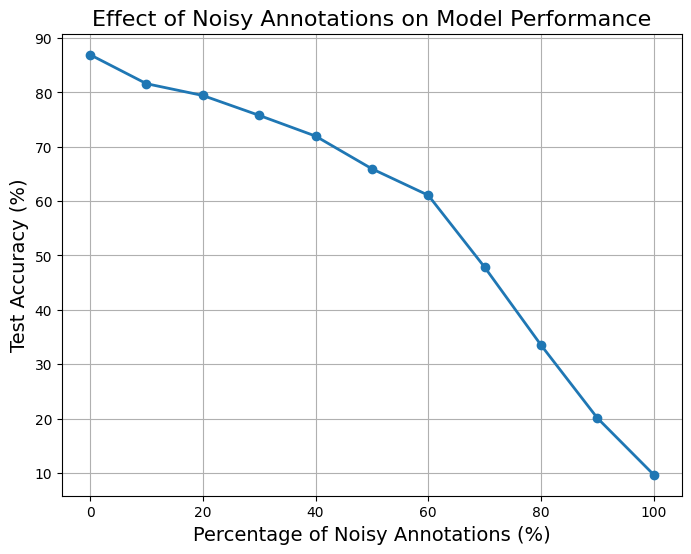
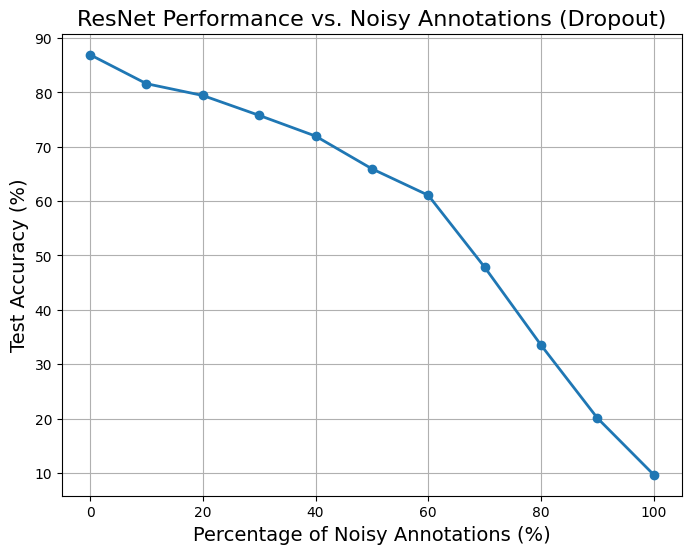
Graphs are updated and readme updated with quantization

Changed region(s): [[0.1216, 0.0, 0.9725, 0.0614]]

diff --git a/CakmakKilic/Readme.md b/CakmakKilic/Readme.md
@@ -126,6 +126,10 @@ For all regularization and compression techniques, we used above settings as bas
 
 We added Dropout right after the initial layer, after each block, and again before the final linear layer. 
 
+### Quantization 
+
+We created a new quantized ResNet-20 model using PyTorch’s quantization library and selected the FBGEMM backend. FBGEMM uses 8 bit floating point quantization. We quantized the first convolution, batch normalization, and ReLU layers, as well as the three block layers (including their convolution, batch normalization, and ReLU layers). Finally, we fine-tuned the model for 5 epochs to optimize performance.
+
 # 3. Experiments and results
 
 ## 3.1. Experimental setup
@@ -170,18 +174,28 @@ We trained a total of 132 ResNet20 models using different synthetic noise levels
 </p>
 
 <p align="center">
+  <img src="imgs/pruning.png" alt="" style="width: 50%;"><br>
+  <em> Figure 3: On Cifar10: Effect of Noisy Annotations on ResNet Performance with Pruning</em>
+</p>
+
+<p align="center">
+  <img src="imgs/quantization.png" alt="" style="width: 50%;"><br>
+  <em> Figure 4: On Cifar10: Effect of Noisy Annotations on ResNet Performance with Quantization</em>
+</p>
+
+<p align="center">
   <img src="imgs/early_stopping.png" alt="" style="width: 50%;"><br>
-  <em> Figure 3: On Cifar10: Effect of Noisy Annotations on ResNet Performance with Early Stopping</em>
+  <em> Figure 5: On Cifar10: Effect of Noisy Annotations on ResNet Performance with Early Stopping</em>
 </p>
 
 <p align="center">
   <img src="imgs/weight_decay.png" alt="" style="width: 50%;"><br>
-  <em> Figure 4: On Cifar10: Effect of Noisy Annotations on ResNet Performance with Weight Decay</em>
+  <em> Figure 6: On Cifar10: Effect of Noisy Annotations on ResNet Performance with Weight Decay</em>
 </p>
 
 <p align="center">
   <img src="imgs/dropout.png" alt="" style="width: 50%;"><br>
-  <em> Figure 5: On Cifar10: Effect of Noisy Annotations on ResNet Performance with Dropout</em>
+  <em> Figure 7: On Cifar10: Effect of Noisy Annotations on ResNet Performance with Dropout</em>
 </p>
 
 For all models, accuracy started in the 80–90% range and initially decreased slowly. As synthetic noise increased further, this decrease became more pronounced, leading to a sharper drop in accuracy.
@@ -190,17 +204,17 @@ Below is the combined accuracy graph of all the methods, and the accuracy gap be
 
 <p align="center">
   <img src="imgs/accuracies.png" alt="" style="width: 50%;"><br>
-  <em> Figure 6: Accuracy as a function of the percentage s of training examples randomly reannotated. (ours)</em>
+  <em> Figure 8: Accuracy as a function of the percentage s of training examples randomly reannotated. (ours)</em>
 </p>
 
 <p align="center">
   <img src="imgs/accuracy_gap.png" alt="" style="width: 50%;"><br>
-  <em> Figure 7: Accuracy gain with respect to the baseline model (no regularization applied) as a function of s.(ours)</em>
+  <em> Figure 9: Accuracy gain with respect to the baseline model (no regularization applied) as a function of s.(ours)</em>
 </p>
 
 <p align="center">
   <img src="imgs/original-accuracy.png" alt="" style="width: 50%;"><br>
-  <em> Figure 8: On Cifar10: (a) Accuracy gain with respect to the baseline model (no regularization applied) as a function of s. (b) Accuracy as a function of the percentage s of training examples randomly reannotated.(from the paper)</em>
+  <em> Figure 10: On Cifar10: (a) Accuracy gain with respect to the baseline model (no regularization applied) as a function of s. (b) Accuracy as a function of the percentage s of training examples randomly reannotated.(from the paper)</em>
 </p>
 
 # 4. Conclusion
@@ -209,7 +223,7 @@ We were unable to replicate the facial AU detection experiments described in the
 
 Although the paper has demonstrated that strategies like pruning, dropout, weight decay, and early stopping can yield better performance in the presence of noisy data, our implementation did not replicate those gains. While our results followed a curve similar to that in the paper, we experienced a slight loss rather than the expected improvement when applying these techniques. One likely explanation is our inability to optimally tune the hyperparameters or model configurations such as the learning rate, early stopping validation ratio, pruning parameters, and dropout settings for this setup.
 
-However, our quantization results are similar to the improvements reported in the paper. In contrast to the other methods, quantization effectively fighted label noise and improved performance.
+However, our quantization results are similar to the improvements reported in the paper. In contrast to the other methods, quantization effectively combated label noise and improved performance.
 
 # 5. References
 
